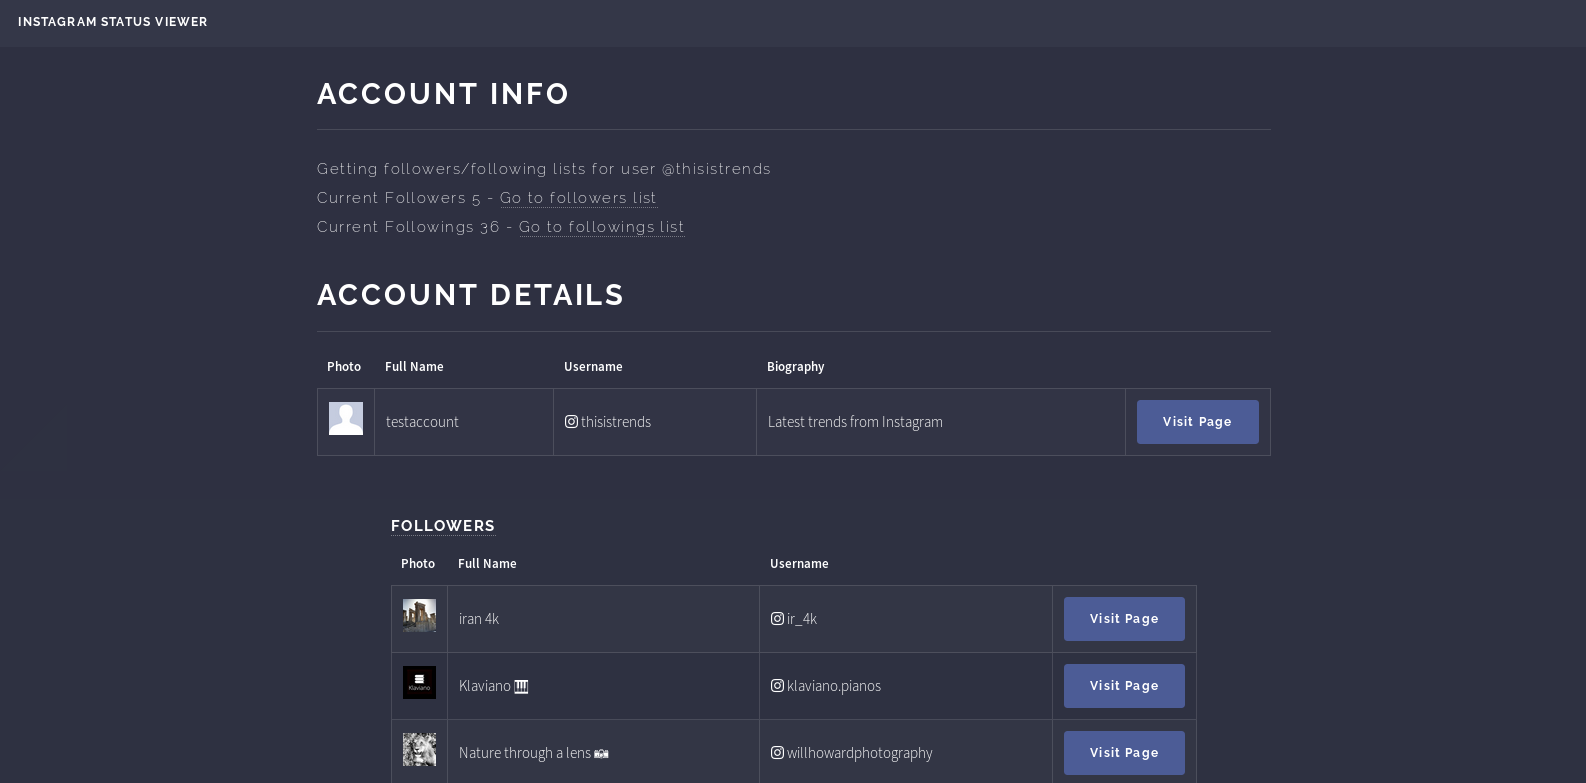
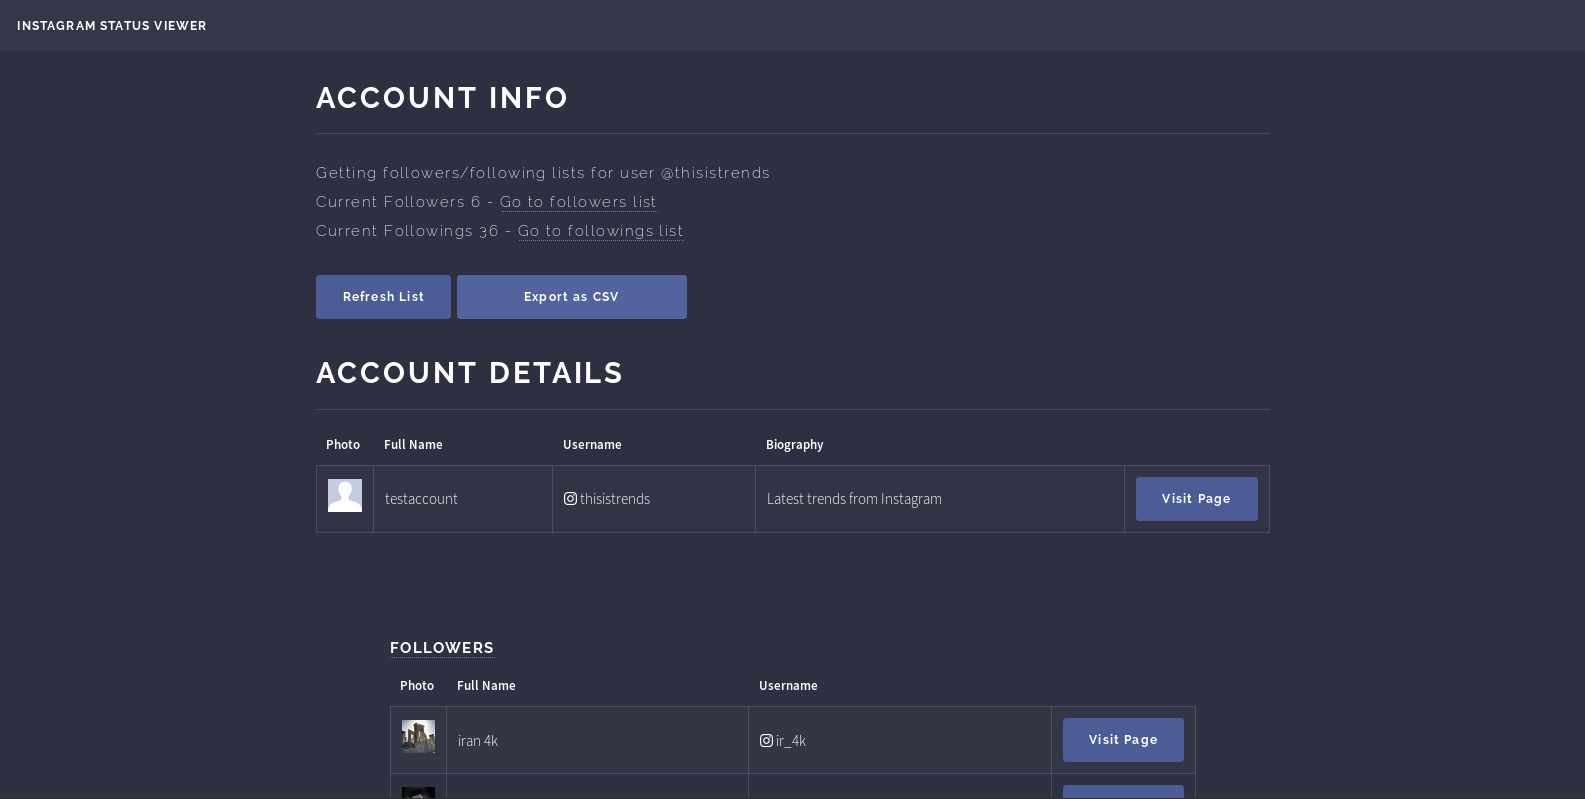
Add Unfollow and Add Refresh Page

diff --git a/templates/unfollow.html b/templates/unfollow.html
@@ -1,0 +1,54 @@
+<!DOCTYPE HTML>
+<html>
+	<head>
+		<title>Instagram Status</title>
+		<meta charset="utf-8" />
+		<meta name="viewport" content="width=device-width, initial-scale=1" />
+		<!--[if lte IE 8]><script src="{{ url_for('static', filename='js/ie/html5shiv.js') }}"></script><![endif]-->
+		<link rel="stylesheet" href="{{ url_for('static', filename='css/main.css') }}" />
+		<!--[if lte IE 9]><link rel="stylesheet" href="{{ url_for('static', filename='css/ie9.css') }}" /><![endif]-->
+		<!--[if lte IE 8]><link rel="stylesheet" href="{{ url_for('static', filename='css/ie8.css') }}" /><![endif]-->
+	</head>
+	<body>
+
+		<!-- Page Wrapper -->
+			<div id="page-wrapper">
+
+				<!-- Header -->
+					<header id="header">
+						<h1><a href="index.html">Instagram Status Viewer</a></h1>
+					</header>
+
+				<!-- Wrapper -->
+					<section id="wrapper">
+						<header>
+							<div class="inner">
+								<h2>Unfollow</h2>
+								<p>You have unfollowed the user {{ unf }}<br>
+								<input type="button" value="Back" onclick="window.history.back()" />
+							</p>
+							</div>
+						</header>
+					</section>
+
+				<!-- Footer -->
+					<section id="footer">
+						<div class="inner">
+							<ul class="copyright">
+								<li>Powered by <a href="http://narbeh.org">Narbeh.org</a> - Designed by <a href="http://html5up.net">HTML5 UP</a></li>
+							</ul>
+						</div>
+					</section>
+			</div>
+
+		<!-- Scripts -->
+			<script src="{{ url_for('static', filename='js/skel.min.js') }}"></script>
+			<script src="{{ url_for('static', filename='js/jquery.min.js') }}"></script>
+			<script src="{{ url_for('static', filename='js/jquery.scrollex.min.js') }}"></script>
+			<script src="{{ url_for('static', filename='js/util.js') }}"></script>
+			<!--[if lte IE 8]><script src="{{ url_for('static', filename='js/ie/respond.min.js') }}<![endif]-->
+			<script src="{{ url_for('static', filename='js/main.js') }}"></script>
+			<script src="{{ url_for('static', filename='js/html2csv.js') }}" ></script>
+
+	</body>
+</html>

diff --git a/templates/index.html b/templates/index.html
@@ -27,6 +27,7 @@
 								<p>Getting followers/following lists for user @{{ username }}<br>
 								Current Followers {{ length }} - <a href="#Followers">Go to followers list</a><br>
 								Current Followings {{ felength }} - <a href="#Followings">Go to followings list</a><br><br>
+								<input class="button special" type="button" value="Refresh List" onclick="location.reload();" />
 								<input class="button special" value="Export as CSV" onclick="exportTableToCSV('insta_list.csv')"></p>
 							</div>
 							<div class="inner">
@@ -99,6 +100,7 @@
 														<td>{{ frow['full_name'] }}</td>
 														<td class="icon fa-instagram"> {{ frow['username'] }}</td>
 														<td class="link-fixed"><a href="https://instagram.com/{{ frow['username'] }}" class="button special">Visit Page</a></td>
+														<td class="link-fixed"><form method="POST"><button class="button special" type="submit" name="unfollow" value="{{ frow['username'] }}">Unfollow</button></form></td>
 													</tr>
 												{% endfor %}
 												</tbody>

diff --git a/static/css/main.css b/static/css/main.css
@@ -1894,7 +1894,6 @@
 /* Form */
 
 	form {
-		margin: 0 0 2em 0;
 	}
 
 		form .field {

diff --git a/main.py b/main.py
@@ -11,21 +11,26 @@ else:
     print('Please set username/password first!')
     exit(1)
 
-app = Flask("instastatus")
+app = Flask('instastatus')
 
 
-@app.route("/")
+@app.route('/', methods=['GET', 'POST'])
 def main():
-    flist = insta.get_followers()
-    felist = insta.get_followings()
-    selfpr = insta.get_self_profile()
-    return render_template('index.html',
-                           flist=flist,
-                           felist=felist,
-                           length=len(flist),
-                           felength=len(felist),
-                           username=username,
-                           profiledata=selfpr)
+    if request.method == 'GET':
+        flist = insta.get_followers()
+        felist = insta.get_followings()
+        selfpr = insta.get_self_profile()
+        return render_template('index.html',
+                               flist=flist,
+                               felist=felist,
+                               length=len(flist),
+                               felength=len(felist),
+                               username=username,
+                               profiledata=selfpr)
+    elif request.method == 'POST':
+        unf = request.form['unfollow']
+        insta.unfollow(unf)
+        return render_template('unfollow.html', unf=unf)
 
 
 app.run(debug=True)

diff --git a/insta_login.py b/insta_login.py
@@ -16,5 +16,9 @@ class InstaLogin(object):
         self.API.getProfileData()
         return self.API.LastJson
 
+    def unfollow(self, username):
+        self.API.searchUsername(username)
+        self.API.unfollow(self.API.LastJson['user']['pk'])
+
     def logout(self):
         self.API.logout()
